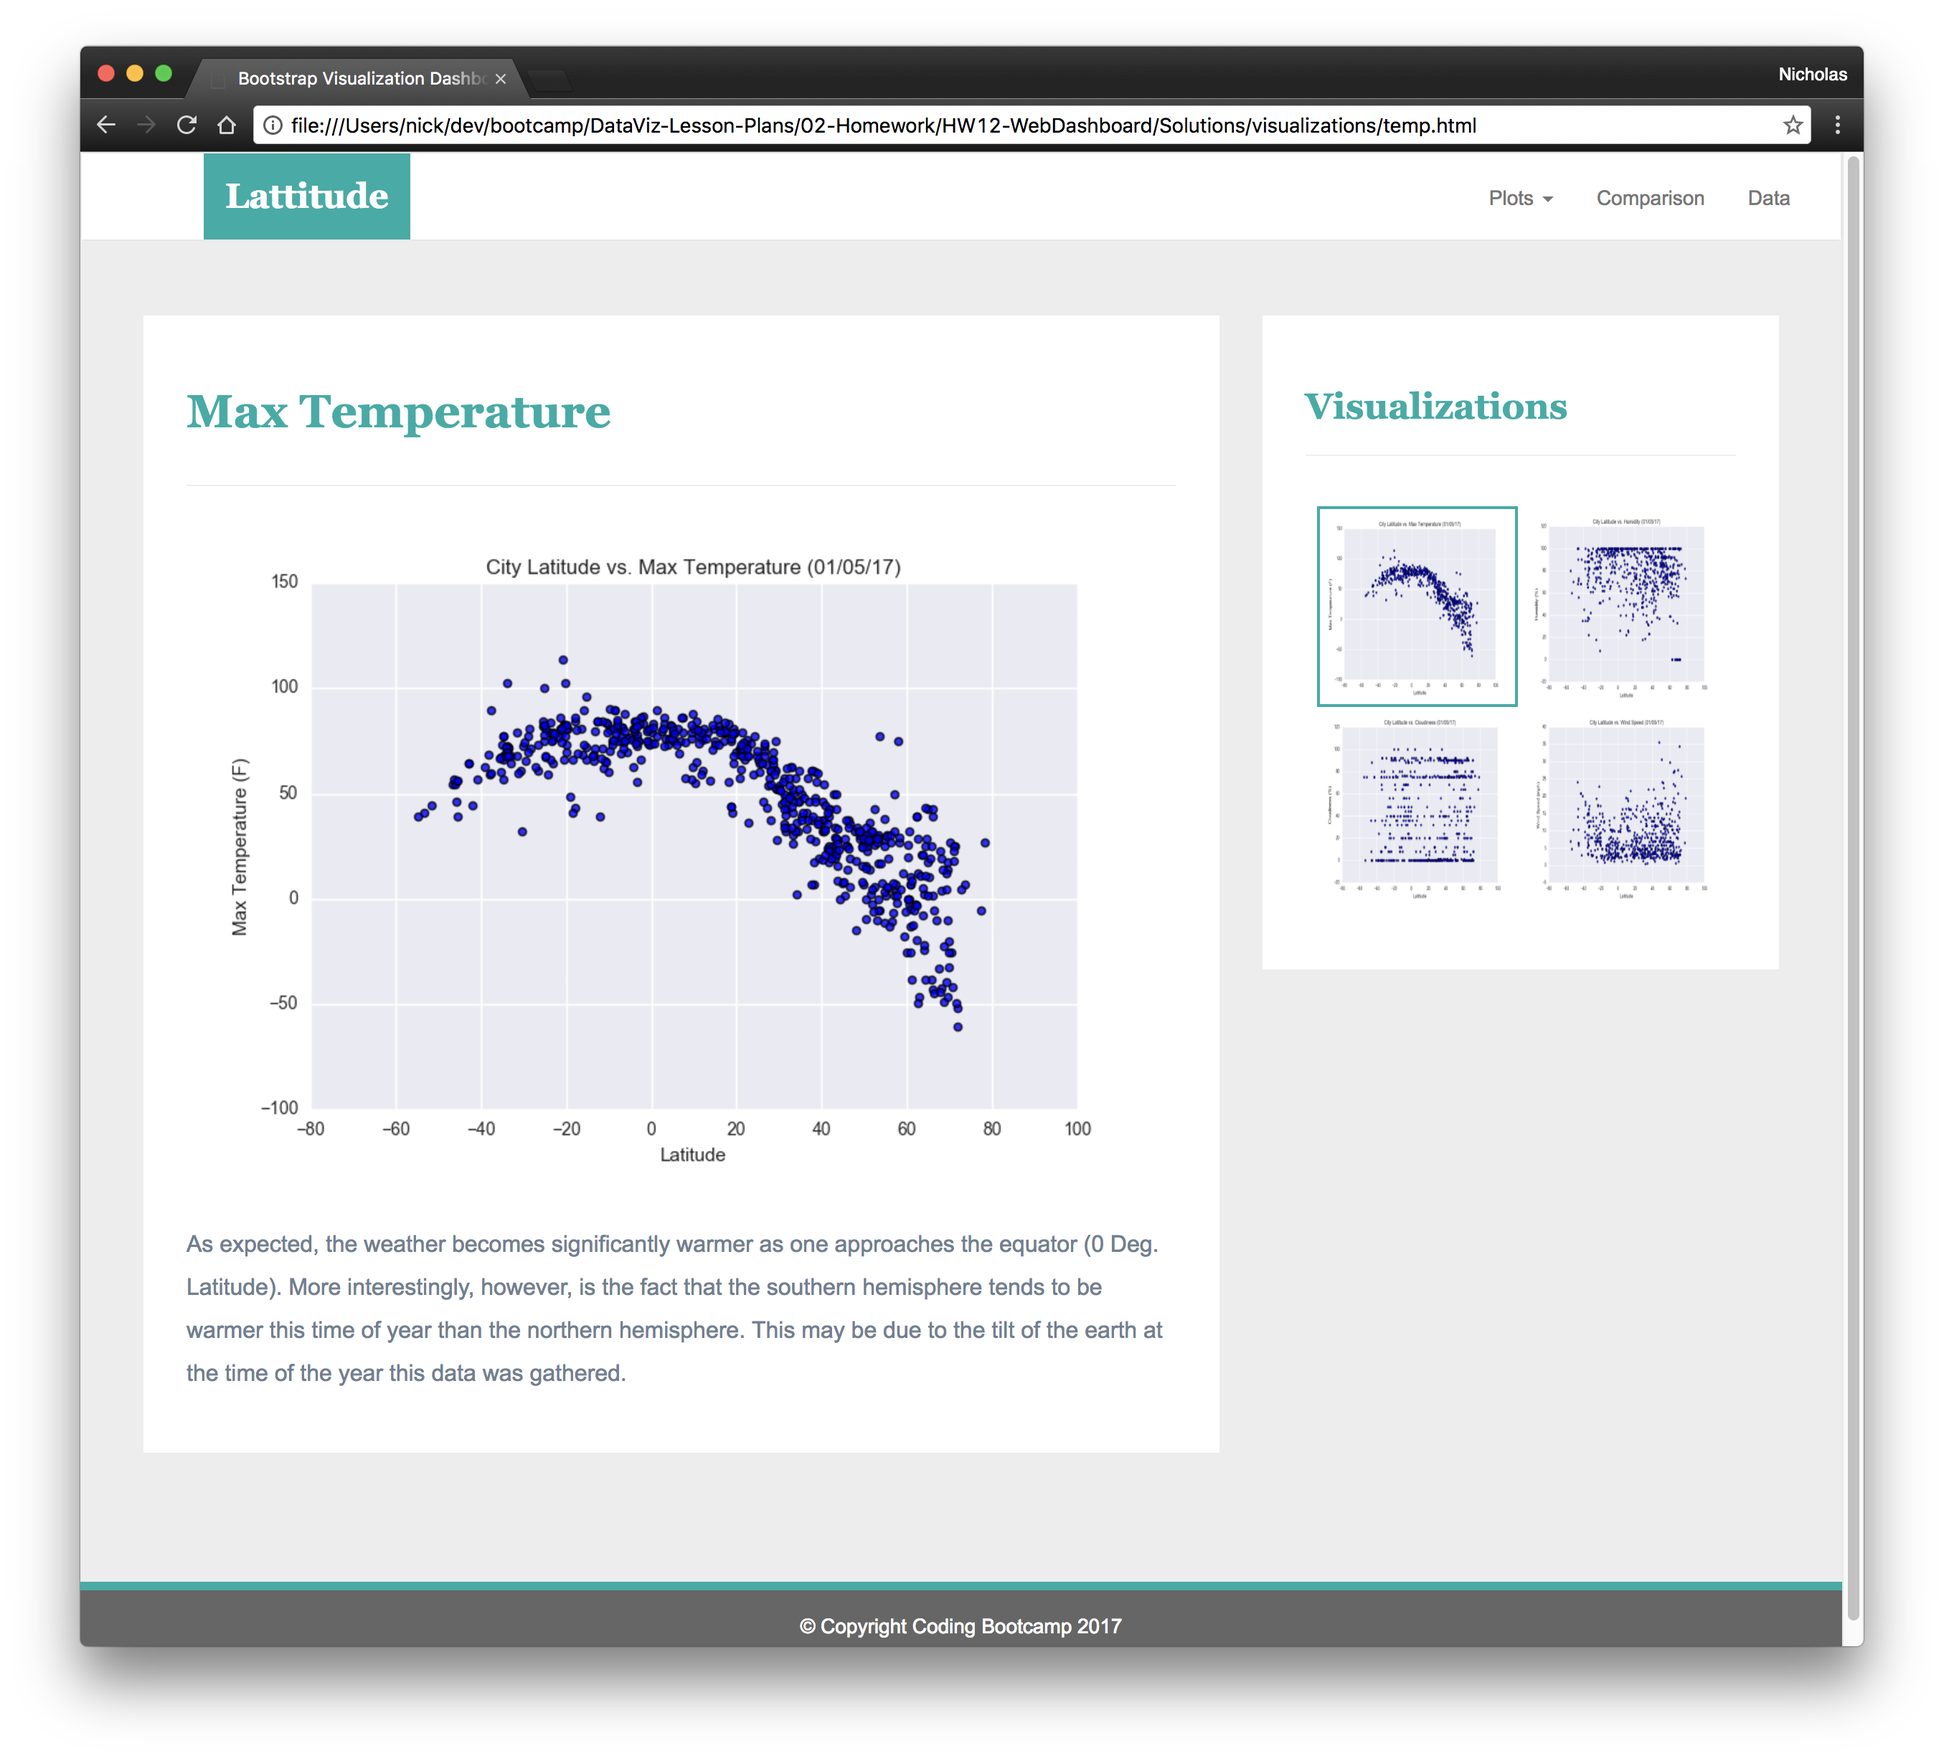
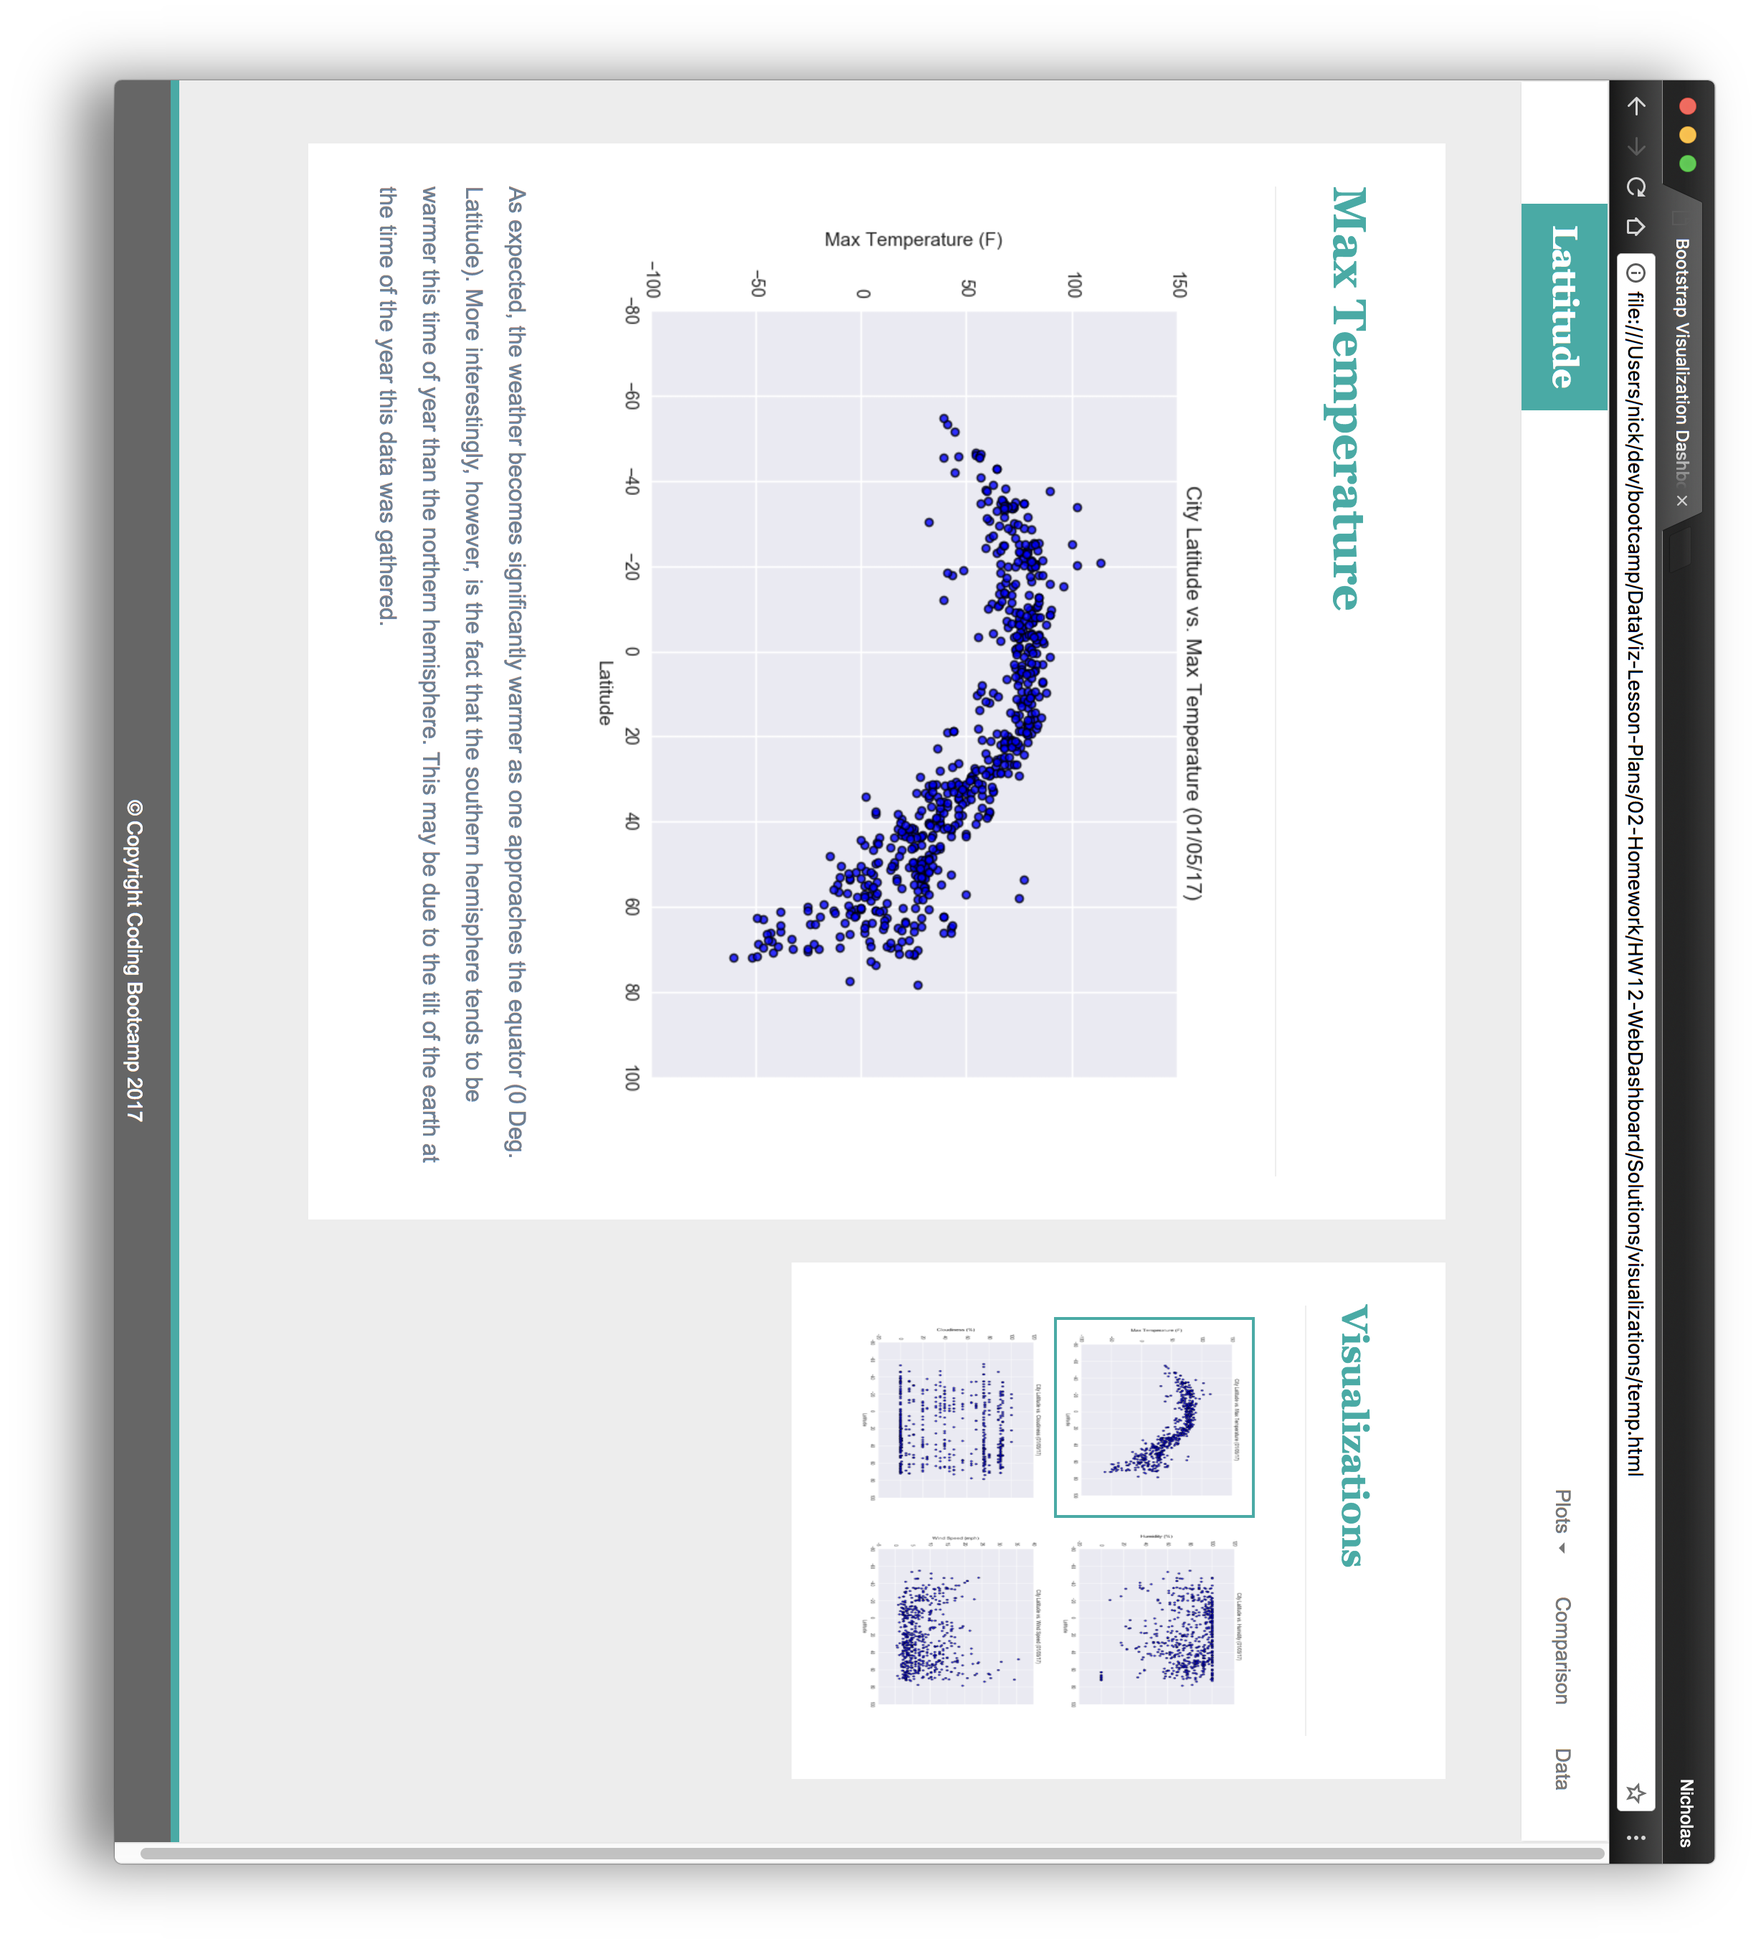
Updated HW

diff --git a/test-index.html b/test-index.html
@@ -1,0 +1,124 @@
+<!DOCTYPE html>
+<html lang="en">
+
+<head>
+    <meta charset="UTF-8">
+    <title>Bootstrap Visualization Dashboard</title>
+    <link rel="stylesheet" href="styles.css">
+<link rel="stylesheet" href="https://stackpath.bootstrapcdn.com/bootstrap/4.3.1/css/bootstrap.min.css" integrity="sha384-ggOyR0iXCbMQv3Xipma34MD+dH/1fQ784/j6cY/iJTQUOhcWr7x9JvoRxT2MZw1T" crossorigin="anonymous">
+
+</head>
+
+<body>
+
+
+    <nav class="navbar navbar-default navbar-inverse navbar-fixed-top">
+        <div class="container-fluid">
+            <div class="navbar-header">
+                <button type="button" class="navbar-toggle collapsed" data-toggle="collapse" data-target="#myNavbar" aria-expanded="false"
+                    aria-controls="navbar">
+                    <span class="icon-bar"></span>
+                    <span class="icon-bar"></span>
+                    <span class="icon-bar"></span>
+                </button>
+                <a id="home" class="active navbar-brand brand_color" href="index.html">Latitude</a>
+            </div>
+            <div>
+
+                <div class="navbar" id="myNavbar">
+
+                    <ul class="nav navbar-nav navbar-right">
+                        <li class="dropdown">
+                            <button class="dropbtn">Plots<i class="fa fa-caret-down"></i>
+                            </button>
+                            </a>
+                            <ul class="dropdown-content">
+                                <li>
+                                    <a href="maxtemp.html">Max Temperature</a>
+                                </li>
+                                <li>
+                                    <a href="humidity.html">Humidity</a>
+                                </li>
+                                <li>
+                                    <a href="cloudiness.html">Cloudiness</a>
+                                </li>
+                                <li>
+                                    <a href="windspeed.html">Wind Speed</a>
+                                </li>
+                            </ul>
+                        </li>
+                        <li>
+                            <a href="comparison.html">Comparison</a>
+                            </li>
+                            <li>
+                            <a href="data.html">Data</a>
+                        </li>
+                    </ul>
+                </div>
+            </div>
+        </div>
+    </nav>
+
+    <!--End "nav bar"-->
+    <div class="container-fluid">
+        <div class="page-header">
+            <div class="jumbotron">
+                <header>
+                    <div class="row">
+                        <div class="left col-lg-8 col-md-8 col-xs-12">
+                            <h2>Summary: Latitude vs. X</h2>
+                            <img id="image" src="Resources\assets\images\Fig1.png" width="200" height="175" class="pull-left img-responsive img-rounded" alt="Latitude vs Longitude">
+                            <p>The purpose of this project was to analyze how weather changes as you get closer to the equator. To accomplish this analysis, we first pulled date from the OpenWeatherMap API to assemble a dataset on over 500 cities.</p>
+                                <br>                                  
+                            <p>After assembling the dataset, we used Matplotlib to plot various aspects of the weather vs. latitude. Factors we looked at included: temperature, cloudiness, wind speed, and humidity. This site provides the source data and visualizations created as part of the analysis, as well as explanations and descriptions of any trends and correlations witnessed.</p>
+                        </div>
+                        <div class="col-md-4">
+                            <h2>Visualizations</h2>
+
+                            <div class="row">
+                                <div class="col-md-6">
+                                    <div class="thumbnail">
+                                        <a href="maxtemp.html"><img src="Resources\assets\images\Fig1.png" width="200" height="175" class="img-responsive" alt="Latitude vs Max Temperature"></a>
+
+                                    </div>
+                                </div>
+
+                                <div class="col-md-6 col-lg-6">
+                                    <div class="thumbnail">
+                                        <a href="humidity.html"><img src="Resources\assets\images\Fig2.png" width="200" height="175" class="img-responsive" alt="Latitude vs Humnidity"></a>
+
+                                    </div>
+                                </div>
+                            </div>
+                            <div class="row">
+                                <div class="col-md-6 col-lg-6">
+                                    <div class="thumbnail">
+                                        <a href="cloudiness.html"><img src="Resources\assets\images\Fig3.png" width="200" height="175" class="img-responsive" alt="Latitude vs Cloudiness"></a>
+
+                                    </div>
+                                </div>
+
+                                <div class="col-md-6 col-lg-6">
+                                    <div class="thumbnail">
+                                        <a href="wind_speed.html"><img src="Resources\assets\images\Fig4.png" width="200" height="175" class="img-responsive" alt="Latitude vs Wind Speed"></a>
+
+                                    </div>
+                                </div>
+                            </div>
+
+                        </div>
+                        <!-- <div class="clearfix"></div> -->
+                </header>
+
+
+                </div>
+            </div>
+
+        </div>
+
+    </div>
+</body>
+
+
+
+</html>

diff --git a/Homework9/maxtemp.html b/Homework9/maxtemp.html
@@ -45,11 +45,10 @@
     <div class="container ">
         <div class="row">
             <div class="left col-lg-8 col-md-8 col-sm-12">
-                <h2>Summary: Latitude vs. X</h2>
-                <img id="image" img style ="float: left" src="Resources\assets\images\Fig1.png" width="200" height="175" class="pull-left img-responsive img-rounded" alt="Latitude vs Longitude">
-                <p>The purpose of this project was to analyze how weather changes as you get closer to the equator. To accomplish this analysis, we first pulled date from the OpenWeatherMap API to assemble a dataset on over 500 cities.</p>
-                    <br>                                  
-                <p>After assembling the dataset, we used Matplotlib to plot various aspects of the weather vs. latitude. Factors we looked at included: temperature, cloudiness, wind speed, and humidity. This site provides the source data and visualizations created as part of the analysis, as well as explanations and descriptions of any trends and correlations witnessed.</p>
+                <h2>Max Temperature</h2>
+                <img id="image" src="Resources\assets\images\Fig1.png" height=65% width=90% class="pull-left img-responsive img-rounded" alt="Max Temperature">
+                <p>As expected, the weather becomes significantly warmer as one approaches the equator (0 deg latitude). More interestingly, however, is the fact that the southern hemisphere tends to be warmer this time of year than the northern hemisphere. This may be due to the tilt of the Earth at the time of the year this data was gathered.</p>
+                                                  
             </div>
             <div class="col-md-4">
                 <h2>Visualizations</h2> <lb>

diff --git a/Homework9/cloudiness.html b/Homework9/cloudiness.html
@@ -45,11 +45,10 @@
     <div class="container ">
         <div class="row">
             <div class="left col-lg-8 col-md-8 col-sm-12">
-                <h2>Summary: Latitude vs. X</h2>
-                <img id="image" img style ="float: left" src="Resources\assets\images\Fig1.png" width="200" height="175" class="pull-left img-responsive img-rounded" alt="Latitude vs Longitude">
-                <p>The purpose of this project was to analyze how weather changes as you get closer to the equator. To accomplish this analysis, we first pulled date from the OpenWeatherMap API to assemble a dataset on over 500 cities.</p>
-                    <br>                                  
-                <p>After assembling the dataset, we used Matplotlib to plot various aspects of the weather vs. latitude. Factors we looked at included: temperature, cloudiness, wind speed, and humidity. This site provides the source data and visualizations created as part of the analysis, as well as explanations and descriptions of any trends and correlations witnessed.</p>
+                <h2>Cloudiness</h2>
+                <img id="image" src="Resources\assets\images\Fig3.png" height=65% width=90% class="pull-left img-responsive img-rounded" alt="Max Temperature">
+                <p>A city's cloudiness does not appear to have any relation latitude in this dataset. Analyzing the chart, you can see that many of the points are patterned in a straight line favoring whole numbers ending in 0 or 5. This shows that there is an observer's bias towards said whole numbers.    </p>
+                                                  
             </div>
             <div class="col-md-4">
                 <h2>Visualizations</h2> <lb>

diff --git a/Homework9/windspeed.html b/Homework9/windspeed.html
@@ -45,11 +45,10 @@
     <div class="container ">
         <div class="row">
             <div class="left col-lg-8 col-md-8 col-sm-12">
-                <h2>Summary: Latitude vs. X</h2>
-                <img id="image" img style ="float: left" src="Resources\assets\images\Fig1.png" width="200" height="175" class="pull-left img-responsive img-rounded" alt="Latitude vs Longitude">
-                <p>The purpose of this project was to analyze how weather changes as you get closer to the equator. To accomplish this analysis, we first pulled date from the OpenWeatherMap API to assemble a dataset on over 500 cities.</p>
-                    <br>                                  
-                <p>After assembling the dataset, we used Matplotlib to plot various aspects of the weather vs. latitude. Factors we looked at included: temperature, cloudiness, wind speed, and humidity. This site provides the source data and visualizations created as part of the analysis, as well as explanations and descriptions of any trends and correlations witnessed.</p>
+                <h2>Wind Speed</h2>
+                <img id="image" src="Resources\assets\images\Fig4.png" height=65% width=90% class="pull-left img-responsive img-rounded" alt="Max Temperature">
+                <p>This data chart shows that the further away a city is above the equator (positive latitude), the greater chance that city will experience higher wind speeds. There are many data points between the 20 and 80 degree range, with most of those points experiencing wind speeds of under 10mph.</p>
+                                                  
             </div>
             <div class="col-md-4">
                 <h2>Visualizations</h2> <lb>

diff --git a/Homework9/humidity.html b/Homework9/humidity.html
@@ -45,11 +45,10 @@
     <div class="container ">
         <div class="row">
             <div class="left col-lg-8 col-md-8 col-sm-12">
-                <h2>Summary: Latitude vs. X</h2>
-                <img id="image" img style ="float: left" src="Resources\assets\images\Fig1.png" width="200" height="175" class="pull-left img-responsive img-rounded" alt="Latitude vs Longitude">
-                <p>The purpose of this project was to analyze how weather changes as you get closer to the equator. To accomplish this analysis, we first pulled date from the OpenWeatherMap API to assemble a dataset on over 500 cities.</p>
-                    <br>                                  
-                <p>After assembling the dataset, we used Matplotlib to plot various aspects of the weather vs. latitude. Factors we looked at included: temperature, cloudiness, wind speed, and humidity. This site provides the source data and visualizations created as part of the analysis, as well as explanations and descriptions of any trends and correlations witnessed.</p>
+                <h2>Humidity</h2>
+                <img id="image" src="Resources\assets\images\Fig2.png" height=65% width=90% class="pull-left img-responsive img-rounded" alt="Max Temperature">
+                <p>There does not appear to be a direct relationship between latitude and the humidity levels in the data set. Most cities have humidity levels above 60% and very few are below 40%.</p>
+                                                  
             </div>
             <div class="col-md-4">
                 <h2>Visualizations</h2> <lb>

diff --git a/Homework9/styles.css b/Homework9/styles.css
@@ -5,7 +5,7 @@ body {
 #home {
      color: white);
      background-color: rgb(12, 173, 167);
-     font-family: times new roman;
+     font-family: calibri;
      font-weight: bold;
 }
 
@@ -43,7 +43,7 @@ p {
 
 .navbar-brand {
                background-color: rgb(12, 173, 167);
-               font-family: times new roman;
+               font-family: calibri;
                font-weight: bold;
                color: white;
                padding-right: 10px;
@@ -58,7 +58,7 @@ p {
 
   .navbar-brand {
                  background-color: white;
-                 font-family: times new roman;
+                 font-family: calibri;
                  font-weight: bold;
                  color: rgb(12, 173, 167);
 }
